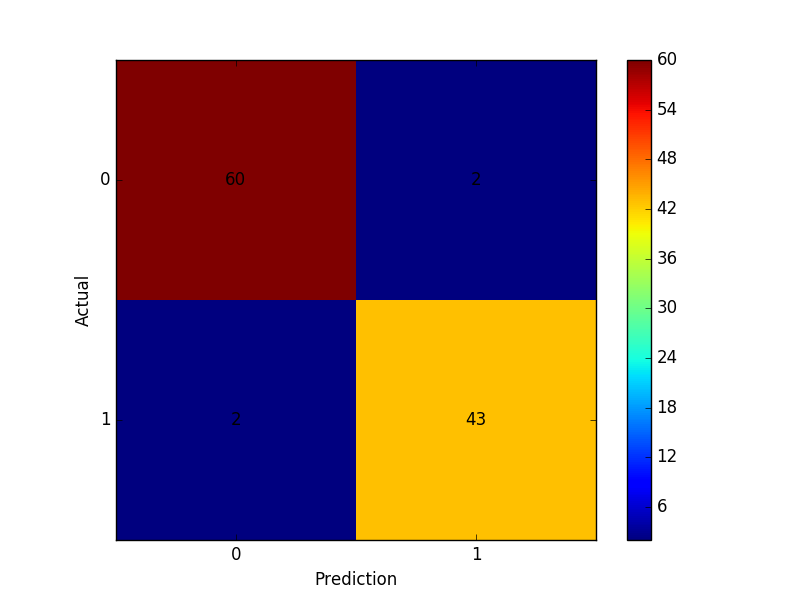
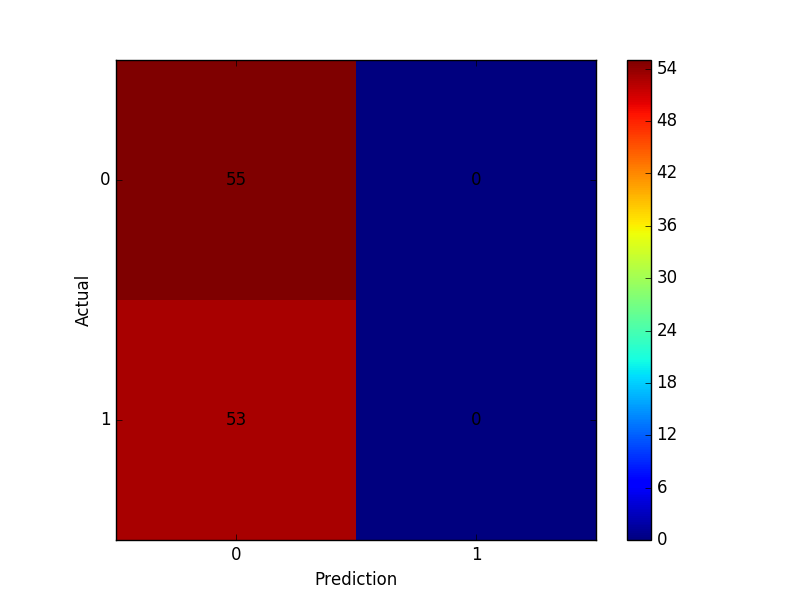
RED ALERT

diff --git a/run.py b/run.py
@@ -1,7 +1,7 @@
 import tensorflow as tf
 import numpy as np
 from utils import *
-# from utils_visual import *
+from utils_visual import *
 from layers import *
 from models import *
 from input_brain import *
@@ -9,6 +9,8 @@ from constants import *
 import os
 import datetime
 import csv
+import json
+import create_brain_binaries
 
 FLAGS = tf.app.flags.FLAGS
 
@@ -32,9 +34,11 @@ tf.app.flags.DEFINE_string('all_binaries', '/data/all2.json',
 # Convolutional Auto Encoder compressed files
 tf.app.flags.DEFINE_string('reduced_dir', '/data/binaries_reduced2',
                            """File containing list of all the binary filenames """)
-tf.app.flags.DEFINE_string('reduced_train_binaries', '/data/reduced_aug_partial_train.json',#'/data/reduced_train2.json',
+
+# Train, Test, all,
+tf.app.flags.DEFINE_string('reduced_train_binaries', '/data/swap_partial_train_reduced.json',#'/data/reduced_aug_blackout_train.json',#'/data/reduced_train2.json',
                            """File containing list of binary filenames used for training """)
-tf.app.flags.DEFINE_string('reduced_test_binaries', '/data/reduced_test2.json',
+tf.app.flags.DEFINE_string('reduced_test_binaries', '/data/swap_partial_train_reduced.json',#'/data/reduced_test2.json',#'/data/reduced_train2.json', #'/data/reduced_test2.json',
                            """File containing list of binary filenames used for testing """)
 tf.app.flags.DEFINE_string('reduced_all_binaries', '/data/reduced_all2.json',
                            """File containing list of all the binary filenames """)
@@ -50,11 +54,12 @@ def createVariables(train, binary_filelist, batch_size, input_dimensions):
     # train: Boolean
     # data_list: Path of a file containing a list of all binary data file paths
     # batch_size: int
+    print "Currently reading from: " + binary_filelist
     p_keep_conv = tf.placeholder(tf.float32)
     if train:
-        X_image, X_data, Y = distorted_inputs(train, binary_filelist, batch_size, input_dimensions)
+        X_image, X_data, Y = distorted_inputs(True, binary_filelist, batch_size, input_dimensions)
     else:
-        X_image, X_data, Y = inputs(train, binary_filelist, batch_size, input_dimensions)
+        X_image, X_data, Y = inputs(False, binary_filelist, batch_size, input_dimensions)
     return X_image, X_data, Y, p_keep_conv
 
 
@@ -263,7 +268,11 @@ def run_model(train, model, binary_filelist, run_all, batch_size, max_steps, ove
     else:
         input_dimensions = [31, 37, 31]
 
-    image, data, output, p_keep_conv = createVariables(train, binary_filelist, batch_size, input_dimensions)
+    # image, data, output, p_keep_conv = createVariables(train, binary_filelist, batch_size, input_dimensions)
+    image = tf.placeholder(dtype=tf.float32, shape=(None, 31, 37, 31, 1))
+    data = tf.placeholder(dtype=tf.float32, shape=(None, 29))
+    output = tf.placeholder(dtype=tf.float32, shape=(None, 1))
+    p_keep_conv = tf.placeholder(dtype=tf.float32)
 
     if model == 'ae':
         layer_outputs, weights, encode, decode, \
@@ -291,12 +300,16 @@ def run_model(train, model, binary_filelist, run_all, batch_size, max_steps, ove
         ckpt_list = ckpt.all_model_checkpoint_paths
     print ckpt_list
 
+    # Only use latest checkpoint
+    ckpt_list = [ckpt_list[-1]]
+
     with open('checkpoint_results.csv', 'a') as csvfile:
         writer = csv.writer(csvfile)
         writer.writerow(['checkpoint', 'accuracy', 'recall', 'precision', 'f_score'])
         for ckpt_file in ckpt_list:
+            print "Using Checkpoint: " + str(ckpt_file)
             # Launch the graph in a session
-            gpu_options = tf.GPUOptions(per_process_gpu_memory_fraction=1.0)
+            gpu_options = tf.GPUOptions(per_process_gpu_memory_fraction=0.33)
             with tf.Session(config=tf.ConfigProto(gpu_options=gpu_options)) as sess:
                 # Create a saver
                 saver = tf.train.Saver(tf.all_variables(), max_to_keep=100)
@@ -305,62 +318,116 @@ def run_model(train, model, binary_filelist, run_all, batch_size, max_steps, ove
                     init_op = tf.group(tf.initialize_all_variables(), tf.initialize_local_variables())
                     init_op.run()
 
-                coord = tf.train.Coordinator()
-                tf.train.start_queue_runners(coord=coord, sess=sess)
+                # coord = tf.train.Coordinator()
+                # tf.train.start_queue_runners(coord=coord, sess=sess)
 
-                # Visualization of Distorted inputs
-                distorted_image = np.asarray(sess.run(image))
-                print np.shape(distorted_image)
-                mat2visual(distorted_image[0, :, :, :, 0], [10, 15, 19], 'distortedImage.png', 'auto')
+                # # Visualization of Distorted inputs
+                # distorted_image = np.asarray(sess.run(image))
+                # print np.shape(distorted_image)
+                # mat2visual(distorted_image[0, :, :, :, 0], [10, 15, 19], 'distortedImage.png', 'auto')
 
                 i_stopped = setup_checkpoint(train, sess, saver, ckpt, str(ckpt_file), overrideChkpt)
 
                 compressed_filelist = []
                 predictions = []
                 targets = []
-                for i in range(i_stopped, max_steps):
-                    print("Running iteration {} of TF Session".format(i))
-                    if model == 'cae' or model == 'ae':
-                        if train:
-                            _, loss = sess.run([train_op, cost])
-                        else:
-                            loss = sess.run(cost)
-                    else:
-                        if train:
-                            _, pred, loss, targ = sess.run([train_op, layer_outputs['pred'], cost, output])
-                            print "Prediction Probabilities are: " + str(pred)
-                            predictions = np.argmax(pred, axis=1)
-                            targets = targ.flatten().astype(int)
-                            print "Predictions are: " + str(predictions)
-                            print "Target are:      " + str(targets)
-                            compute_statistics(targets, predictions)
-                        else:
-                            pred, loss, targ = sess.run([layer_outputs['pred'], cost, output])
-                            print "Prediction Probabilities are: " + str(pred)
-                            predictions.extend(np.argmax(pred, axis=1).flatten().tolist())
-                            targets.extend(targ.flatten().tolist())
-                    print("The current loss is: " + str(loss))
+                avg_acc = 0
 
-                    # Checkpoint model at each 100 iterations
-                    should_save = i != 0 and i % 1000 == 0 or (i+1) == max_steps
-                    if should_save and train:
-                        checkpoint_path = os.path.join(FLAGS.checkpoint_dir, 'model.ckpt')
-                        saver.save(sess, checkpoint_path, global_step=i)
+                # Feed dict testing
+                with open(binary_filelist, 'r') as testing:
+                    list_test = json.load(testing)
 
-                    # If running all files for CAE
-                    if not train and run_all and model == 'cae':
-                        bin_path = create_CEA_reduced_binary(sess, encode, output,
-                                                            data, FLAGS, i)
-                        compressed_filelist.append(bin_path)
+                for f in list_test:
+                    print f
+                    LABEL_SZ = 1
+                    PHENO_SZ = 29
+                    X_SZ = 31
+                    Y_SZ = 37
+                    Z_SZ = 31
 
-                coord.request_stop()
-                coord.join(stop_grace_period_secs=10)
+                    bz = 32 #32
+                    label = np.memmap(filename=f, dtype='float32',
+                                      mode='r', offset=0, shape=1)
+                    temp_label = label.reshape((1,1))
+                    new_label = np.zeros((bz, 1))
+                    for i in xrange(bz):
+                        new_label[i, 0] = temp_label
+
+                    brain = create_brain_binaries._normalize_brain(np.memmap(filename=f, dtype='float32',
+                                      mode='r', offset=(LABEL_SZ+PHENO_SZ)*4, shape=(X_SZ,Y_SZ,Z_SZ)))
+                    brain = brain.reshape((1, X_SZ,Y_SZ,Z_SZ, 1))
+                    mat2visual(brain[0, :, :, :, 0], [10, 15, 19], 'distortedImage.png', 'auto')
+                    new_brain = np.zeros((32, X_SZ,Y_SZ,Z_SZ, 1))
+                    for i in xrange(bz):
+                        new_brain[i, :, :, :, :] = brain
+
+                    feed_dict = {image: new_brain, output: new_label, p_keep_conv: 1.0}
+
+                    pred, loss, targ = sess.run([layer_outputs['pred'], cost, output], feed_dict=feed_dict)
+                    p = np.argmax(pred, axis=1).flatten().tolist()[0]
+
+                    print targ[0, 0] == label
+                    print "Prediction Probabilities are: " + str(pred[0, :])
+                    print "Predictions are: " + str(p)
+                    print "Target are:      " + str(targ[0, 0])
+                    print "Loss:            " + str(loss)
+                    predictions.append(p)
+                    targets.append(targ[0, 0])
+
+
+                # for i in range(i_stopped, max_steps):
+                #     print("Running iteration {} of TF Session".format(i))
+                #     if model == 'cae' or model == 'ae':
+                #         if train:
+                #             _, loss = sess.run([train_op, cost])
+                #         else:
+                #             loss = sess.run(cost)
+                #     else:
+                #         if train:
+                #             _, pred, loss, targ = sess.run([train_op, layer_outputs['pred'], cost, output])
+                #             print "Prediction Probabilities are: " + str(pred)
+                #             predictions = np.argmax(pred, axis=1)
+                #             targets = targ.flatten().astype(int)
+                #             print "Predictions are: " + str(predictions)
+                #             print "Target are:      " + str(targets)
+                #             compute_statistics(targets, predictions)
+                #         else:
+                #             pred, loss, targ = sess.run([layer_outputs['pred'], cost, output])
+                #             print "Prediction Probabilities are: " + str(pred)
+                #             p = np.argmax(pred, axis=1).flatten().tolist()
+                #             print "Predictions are: " + str(p)
+                #             print "Target are:      " + str(targ.flatten().tolist())
+                #             predictions.extend(p)
+                #             targets.extend(targ.flatten().tolist())
+                #             _, acc, _, _, _ = compute_statistics(targ.flatten().tolist(), p)
+                #             avg_acc += acc
+                #
+                #     print("The current loss is: " + str(loss))
+                #
+                #     # Checkpoint model at each 100 iterations
+                #     should_save = i != 0 and i % 50 == 0 or (i+1) == max_steps
+                #     if should_save and train:
+                #         checkpoint_path = os.path.join(FLAGS.checkpoint_dir, 'model.ckpt')
+                #         saver.save(sess, checkpoint_path, global_step=i)
+                #
+                #     # If running all files for CAE
+                #     if not train and run_all and model == 'cae':
+                #         bin_path = create_CEA_reduced_binary(sess, encode, output,
+                #                                             data, FLAGS, i)
+                #         compressed_filelist.append(bin_path)
+                #
+                # coord.request_stop()
+                # coord.join(stop_grace_period_secs=10)
 
                 if not train and model != 'cae' and model != 'ae':
-                    predictions = predictions[:107]
-                    targets = targets[:107]
+                    # predictions = predictions[:107]
+                    # targets = targets[:107]
+                    print "Average Accuracy: " + str(avg_acc / max_steps)
+                    targets = [int(t) for t in targets]
                     print predictions
                     print targets
+                    print sum([abs(a-b) for a, b in zip(predictions, targets)])
+                    print len(targets), len(predictions)
                     conf_matrix, accuracy, recall, precision, f_score = compute_statistics(targets, predictions)
                     plot_confusion_matrix(conf_matrix)
 

diff --git a/input_brain.py b/input_brain.py
@@ -3,8 +3,8 @@ import numpy as np
 import json
 
 # Train and evaliation epoch definition
-NUM_EXAMPLES_PER_EPOCH_FOR_TRAIN = 1000
-NUM_EXAMPLES_PER_EPOCH_FOR_EVAL = 200
+NUM_EXAMPLES_PER_EPOCH_FOR_TRAIN = 10000
+NUM_EXAMPLES_PER_EPOCH_FOR_EVAL = 2000 #200
 
 # Pixels to crop in each dimensions
 CROP = 4
@@ -133,23 +133,25 @@ def read_binary(filename_queue, dimensions):
 def _generate_image_and_label_batch(image, data, label, min_queue_examples, batch_size, shuffle):
 	# Create queue that shuffles examples and reads 'batch_size' images/labels from queue
 	train_preprocess_threads = 16
-	test_preprocess_threads = 1         # TODO: subject to change- explain
+	test_preprocess_threads = 1
 
 	if shuffle:
+		print "HERE5"
 		images, data, label_batch = tf.train.shuffle_batch(
 			[image, data, label],
 			batch_size=batch_size,
 			num_threads=train_preprocess_threads,
-			capacity=min_queue_examples + 3 * batch_size, #TODO: subject to change
+			capacity=min_queue_examples + 3 * batch_size,
 			min_after_dequeue=min_queue_examples,
 			seed=273
 		)
 	else:
+		print "HERE6"
 		images, data, label_batch = tf.train.batch(
 			[image, data, label],
 			batch_size=batch_size,
-			num_threads=train_preprocess_threads,
-			capacity=min_queue_examples + 3 * batch_size #TODO: subject to change
+			num_threads=test_preprocess_threads,
+			capacity=min_queue_examples + 3 * batch_size
 		)
 
 	return images, data, tf.reshape(label_batch, [batch_size])
@@ -164,12 +166,8 @@ def distorted_inputs(train, data_list, batch_size, dimensions):
 			raise ValueError('Failed to find file: ' + f)
 
 	# Create a queue that produces the filenames to read
-	if train:
-		num_examples_per_epoch = NUM_EXAMPLES_PER_EPOCH_FOR_TRAIN
-		filename_queue = tf.train.string_input_producer(filenames, shuffle=True, seed=273, num_epochs = 10)
-	else:
-		num_examples_per_epoch = NUM_EXAMPLES_PER_EPOCH_FOR_EVAL
-        filename_queue = tf.train.string_input_producer(filenames, shuffle=False)
+	num_examples_per_epoch = NUM_EXAMPLES_PER_EPOCH_FOR_TRAIN
+	filename_queue = tf.train.string_input_producer(filenames, shuffle=True, seed=273, num_epochs = 10)
 
 	# Read examples from files in filename queue
 	read_input = read_binary(filename_queue, dimensions)
@@ -218,12 +216,10 @@ def inputs(train, data_list, batch_size, dimensions):
 			raise ValueError('Failed to find file: ' + f)
 
 	# Create a queue that produces the filenames to read
-	if train:
-		num_examples_per_epoch = NUM_EXAMPLES_PER_EPOCH_FOR_TRAIN
-		filename_queue = tf.train.string_input_producer(filenames, shuffle=True, seed=273, num_epochs = 10)
-	else:
-		num_examples_per_epoch = NUM_EXAMPLES_PER_EPOCH_FOR_EVAL
-        filename_queue = tf.train.string_input_producer(filenames, shuffle=False)
+	num_examples_per_epoch = NUM_EXAMPLES_PER_EPOCH_FOR_TRAIN
+	filename_queue = tf.train.string_input_producer(filenames, shuffle=True, seed=273)#, num_epochs = 10)
+	# num_examples_per_epoch = NUM_EXAMPLES_PER_EPOCH_FOR_EVAL
+	# filename_queue = tf.train.string_input_producer(filenames, shuffle=False)
 
 	# Read examples from files in filename queue
 	read_input = read_binary(filename_queue, dimensions)

diff --git a/create_brain_binaries.py b/create_brain_binaries.py
@@ -6,8 +6,9 @@ import argparse
 
 
 BRAIN_DIR = os.path.abspath('/data/originalfALFFData')
-BRAIN_DIR_AUG_ALL = os.path.abspath('/data/augmented_all_patched')
-BRAIN_DIR_AUG_PARTIAL = os.path.abspath('/data/augmented_partial_patched')
+BRAIN_DIR_AUG_ALL = os.path.abspath('/data/augmented_swap_all')
+# BRAIN_DIR_AUG_PARTIAL = os.path.abspath('/data/augmented_swap_partial')
+BRAIN_DIR_AUG_PARTIAL = os.path.abspath('/data/augmented_swap_partial_steal_25_split_80_20')
 
 # PHENOTYPE_FILE = os.path.abspath('/data/processed_imputed_phenotype_data.csv')
 PHENOTYPE_FILE = os.path.abspath('/data/normalized_imputed_phenotype_data.csv')
@@ -17,11 +18,13 @@ ALL_FILES = os.path.abspath('/data/all2.json')
 TRAIN_FILE = os.path.abspath('/data/train2.json')
 TEST_FILE = os.path.abspath('/data/test2.json')
 
-OUTPUT_DIR_PARTIAL_RANDOM = os.path.abspath('/data/aug_partial_binaries')
-TRAIN_FILE_PARTIAL_RANDOM = os.path.abspath('/data/aug_partial_train.json')
+# OUTPUT_DIR_PARTIAL_RANDOM = os.path.abspath('/data/swap_partial_binaries')
+OUTPUT_DIR_PARTIAL_RANDOM = os.path.abspath('/data/augmented_swap_partial_steal_25_split_80_20_binaries')
+# TRAIN_FILE_PARTIAL_RANDOM = os.path.abspath('/data/swap_partial_train.json')
+TRAIN_FILE_PARTIAL_RANDOM = os.path.abspath('/data/train_20_80_split.json')
 
-OUTPUT_DIR_ALL_RANDOM = os.path.abspath('/data/aug_all_binaries')
-TRAIN_FILE_ALL_RANDOM = os.path.abspath('/data/aug_all_train.json')
+OUTPUT_DIR_ALL_RANDOM = os.path.abspath('/data/swap_all_binaries')
+TRAIN_FILE_ALL_RANDOM = os.path.abspath('/data/swap_all_train.json')
 
 
 def _create_feature_binary(X_data, X_image, y_feature, filename):
@@ -195,6 +198,8 @@ def main():
 
         output_dir = OUTPUT_DIR_ALL_RANDOM if args.all_random else OUTPUT_DIR_PARTIAL_RANDOM
         train_file = TRAIN_FILE_ALL_RANDOM if args.all_random else TRAIN_FILE_PARTIAL_RANDOM
+
+        print brain_dir, output_dir, train_file
 
         file_list = convert_random_brain_npy(brain_dir, output_dir, use_pheno)
         with open(train_file, 'w') as outfile:

diff --git a/constants.py b/constants.py
@@ -105,8 +105,8 @@ CNN_NUM_FC_LAYERS = sum([1 for i in CONV_ARCH if i=='fc'])
 
 CNN_MMLAYER = CONV_ARCH.index("reshape") + 1
 
-CNN_REG_CONSTANTS_WEIGHTS = [0.95]*CNN_NUM_LAYERS
-CNN_REG_CONSTANTS_BIAS = [0.95]*CNN_NUM_LAYERS
+CNN_REG_CONSTANTS_WEIGHTS = [0.9]*CNN_NUM_LAYERS
+CNN_REG_CONSTANTS_BIAS = [0.9]*CNN_NUM_LAYERS
 
 CNN_FILTER_SZ = [5, 5, None, 3, 3, None, 3, 3, None, None, None, None]
 CNN_NUM_FILTERS = [16, 32, None, 32, 32, None, 16, 1, None, None, None, None]
@@ -124,7 +124,7 @@ CNN_REG_OP = 'l2'
 CNN_RHO = 0.7
 
 # Learning rate for backpropogation
-CNN_LEARNING_RATE = 0.01#0.001
+CNN_LEARNING_RATE = 0.0001#0.001
 
 # apply batch norm or not
 CNN_BATCH_NORM = True

diff --git a/models.py b/models.py
@@ -322,7 +322,7 @@ class ConvNN(CNNLayers):
                 fcShapeConv = prev_layer.get_shape().as_list()
                 fcShapeConv = fcShapeConv[1:]
                 self.cnn_out_params = reduce(lambda x, y: x*y, fcShapeConv)
-                layersOut['layer'+str(i+1)+'-fc'] = tf.reshape( prev_layer, [self.batch_size, self.cnn_out_params])
+                layersOut['layer'+str(i+1)+'-fc'] = tf.reshape( prev_layer, [-1, self.cnn_out_params])
                 layersOut['cnn_out'] = layersOut['layer'+str(i+1)+'-fc']
                 prev_layer = layersOut['layer'+str(i+1)+'-fc']
                 layer_counter += 1

diff --git a/utils.py b/utils.py
@@ -118,7 +118,7 @@ def create_conditions(args, FLAGS):
         else:
             binary_filelist = FLAGS.reduced_test_binaries
         # max_steps = 107
-        max_steps = 4
+        max_steps = 4 #4#30#150
     else:
         if args.model == 'ae':
             binary_filelist = FLAGS.ae_all_binaries
